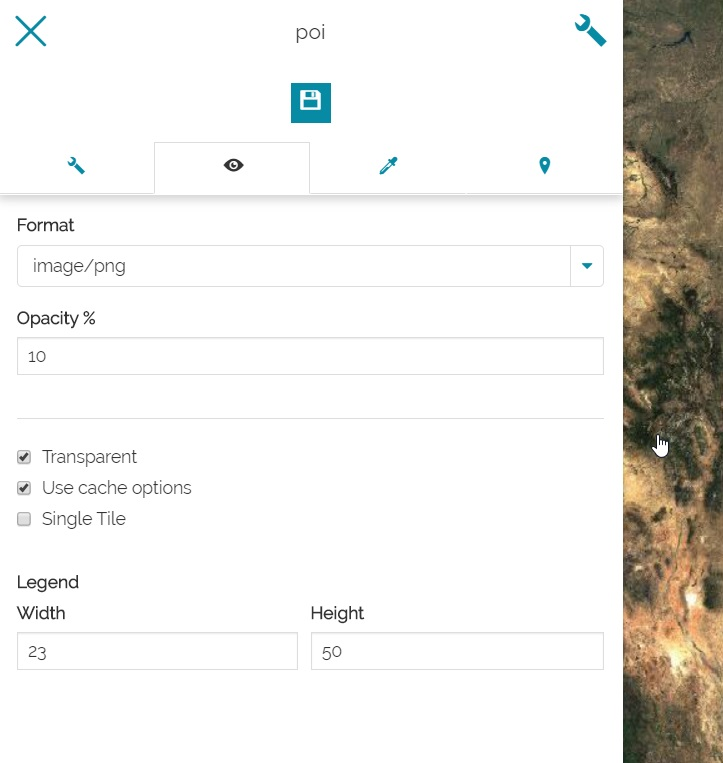
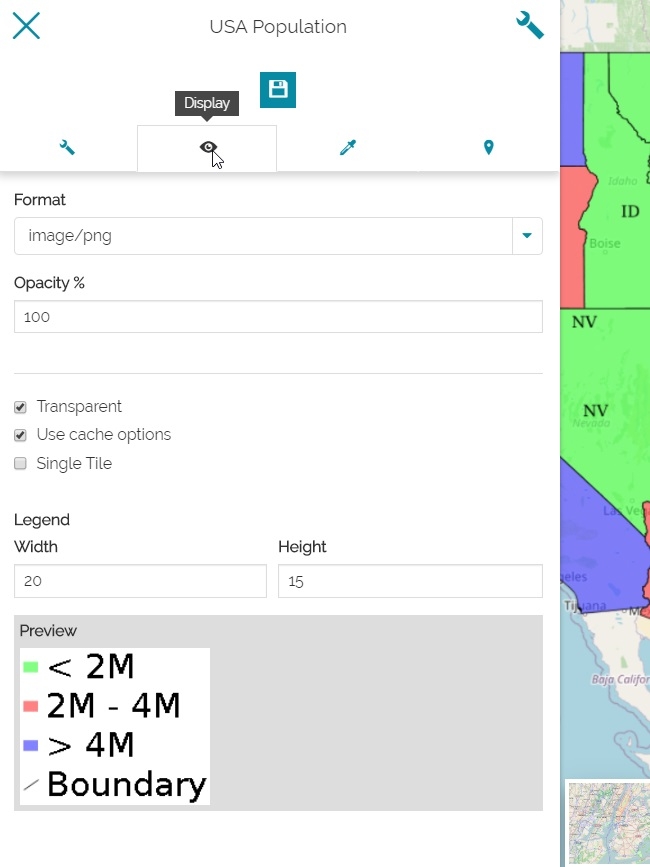
C125-146: Added preview window for legends

diff --git a/web/client/components/TOC/fragments/settings/Display.jsx b/web/client/components/TOC/fragments/settings/Display.jsx
@@ -11,7 +11,8 @@ const PropTypes = require('prop-types');
 const {DropdownList} = require('react-widgets');
 const Message = require('../../../I18N/Message');
 const {Grid, Row, Col, FormGroup, ControlLabel, FormControl, Checkbox} = require('react-bootstrap');
-const {clamp, isNil} = require('lodash');
+const {clamp, isNil, isNumber} = require('lodash');
+const Legend = require('../legend/Legend');
 
 require('react-widgets/lib/less/react-widgets.less');
 
@@ -29,12 +30,19 @@ module.exports = class extends React.Component {
         opacityText: <Message msgId="opacity"/>
     };
 
+    constructor(props) {
+        super(props);
+        this.containerRef = React.createRef();
+    }
+
     state = {
         opacity: 100,
         legendOptions: {
-            legendWidth: 12,
-            legendHeight: 12
-        }
+            legendWidth: "",
+            legendHeight: ""
+        },
+        containerStyle: {overflowX: 'auto'},
+        containerWidth: 0
     };
 
     updateState = (props) =>{
@@ -45,10 +53,11 @@ module.exports = class extends React.Component {
                 legendOptions: {
                     ...this.state.legendOptions,
                     legendHeight: props.element.legendOptions && !isNil(props.element.legendOptions.legendHeight) ?
-                        props.element.legendOptions.legendHeight : Math.round(this.state.legendOptions.legendHeight),
+                        props.element.legendOptions.legendHeight : this.state.legendOptions.legendHeight,
                     legendWidth: props.element.legendOptions && !isNil(props.element.legendOptions.legendWidth) ?
-                        props.element.legendOptions.legendWidth : Math.round(this.state.legendOptions.legendWidth)
-                }
+                        props.element.legendOptions.legendWidth : this.state.legendOptions.legendWidth
+                },
+                containerWidth: this.containerRef.current && this.containerRef.current.clientWidth
             });
         }
     };
@@ -90,10 +99,11 @@ module.exports = class extends React.Component {
     onBlur = (event) => {
         const value = event.target.value && Math.round(event.target.value);
         const name = event.target.name;
+        const defaultSize = 12;
         this.props.onChange({
             legendOptions: {
                 ...this.state.legendOptions,
-                [name]: value > 12 ? value : ""
+                [name]: value >= defaultSize ? value : ""
             }
         });
     };
@@ -105,12 +115,24 @@ module.exports = class extends React.Component {
         return null;
     };
 
+    setOverFlow = () =>{
+        return this.state.legendOptions.legendWidth > this.state.containerWidth;
+    };
+
+    useLegendOptions = () =>{
+        return (
+            this.getValidationState("legendWidth") !== 'error' &&
+            this.getValidationState("legendHeight") !== 'error' &&
+            isNumber(this.state.legendOptions.legendHeight) &&
+            isNumber(this.state.legendOptions.legendWidth)
+        );
+    };
 
     render() {
         return (
             <Grid
                 fluid
-                style={{paddingTop: 15, paddingBottom: 15}}>
+                className={"fluid-container " + (!this.props.containerWidth && "adjust-display")}>
                 {this.props.element.type === "wms" &&
                 <Row>
                     <Col xs={12}>
@@ -195,6 +217,21 @@ module.exports = class extends React.Component {
                                     onBlur={this.onBlur}
                                 />
                             </FormGroup>
+                        </Col>
+                        <Col xs={12} id="legend-preview">
+                            <ControlLabel><Message msgId="layerProperties.legendOptions.legendPreview" /></ControlLabel>
+                            <div style={this.setOverFlow() && this.state.containerStyle || {} } ref={this.containerRef} >
+                                <Legend
+                                    style={this.setOverFlow() && {} || undefined}
+                                    layer={this.props.element}
+                                    legendHeight={
+                                        this.useLegendOptions() &&
+                                        this.state.legendOptions.legendHeight || undefined}
+                                    legendWidth={
+                                        this.useLegendOptions() &&
+                                        this.state.legendOptions.legendWidth || undefined}
+                                />
+                            </div>
                         </Col>
                     </div>
                 </Row>}

diff --git a/web/client/components/TOC/fragments/WMSLegend.jsx b/web/client/components/TOC/fragments/WMSLegend.jsx
@@ -31,15 +31,29 @@ class WMSLegend extends React.Component {
         scaleDependent: true
     };
 
+    constructor(props) {
+        super(props);
+        this.containerRef = React.createRef();
+    }
+    state = {
+        containerWidth: 0,
+        legendContainerStyle: {overflowX: "auto"}
+    };
+
+    componentDidMount() {
+        const containerWidth = this.containerRef.current && this.containerRef.current.clientWidth;
+        this.setState({ containerWidth, ...this.state });
+    }
+
     render() {
         let node = this.props.node || {};
         const showLegend = this.canShow(node) && node.type === "wms" && node.group !== "background";
         const useOptions = showLegend && this.useLegendOptions();
         if (showLegend) {
             return (
-                <div style={this.props.legendContainerStyle}>
+                <div style={!this.setOverflow() ? this.props.legendContainerStyle : this.state.legendContainerStyle} ref={this.containerRef}>
                     <Legend
-                        style={this.props.legendStyle}
+                        style={!this.setOverflow() ? this.props.legendStyle : {}}
                         layer={node}
                         currentZoomLvl={this.props.currentZoomLvl}
                         scales={this.props.scales}
@@ -75,6 +89,11 @@ class WMSLegend extends React.Component {
             isNumber(this.props.node.legendOptions.legendHeight) &&
             isNumber(this.props.node.legendOptions.legendWidth)
         );
+    };
+
+    setOverflow = () => {
+        return this.useLegendOptions() &&
+            this.props.node.legendOptions.legendWidth > this.state.containerWidth;
     }
 }
 

diff --git a/web/client/themes/default/less/toc.less b/web/client/themes/default/less/toc.less
@@ -814,3 +814,17 @@
 .legend-options {
     padding: 15px;
 }
+#legend-preview {
+    padding: 5px;
+    background-color: #dddddd;
+}
+
+.fluid-container {
+    padding-top: 15px;
+    padding-bottom: 15px;
+}
+
+.adjust-display {
+    position: absolute;
+    width: calc(100% - 5px);
+}
